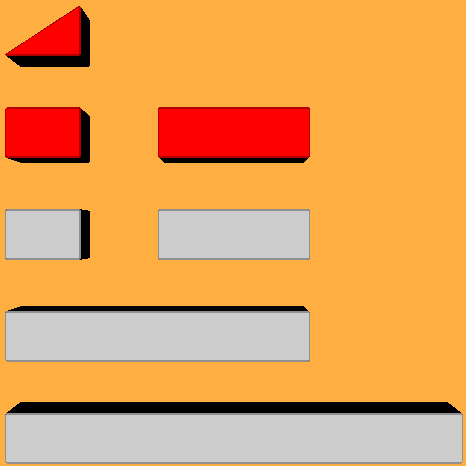
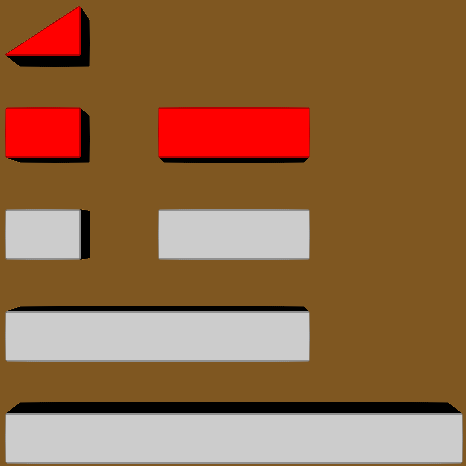
Change background color

diff --git a/examplee/look.h b/examplee/look.h
@@ -7,7 +7,10 @@
 
 #include "paint_can.h"
 
-#define BACKGROUND_COLOR PaintCan(1.0, 0.682, 0.259)
+//#define BACKGROUND_COLOR PaintCan(1.0, 0.682, 0.259)
+#define BACKGROUND_COLOR PaintCan(1.0 / 2.0, 0.682 / 2.0, 0.259 / 2.0)
+
+
 #define MARKER_COLOR PaintCan(0.0, 1.0, 0.0)
 #define BRICK_PAINT PaintCan(1.0, 0.0, 0.0)
 #define FOUNDATION_PAINT PaintCan(0.8, 0.8, 0.8)
